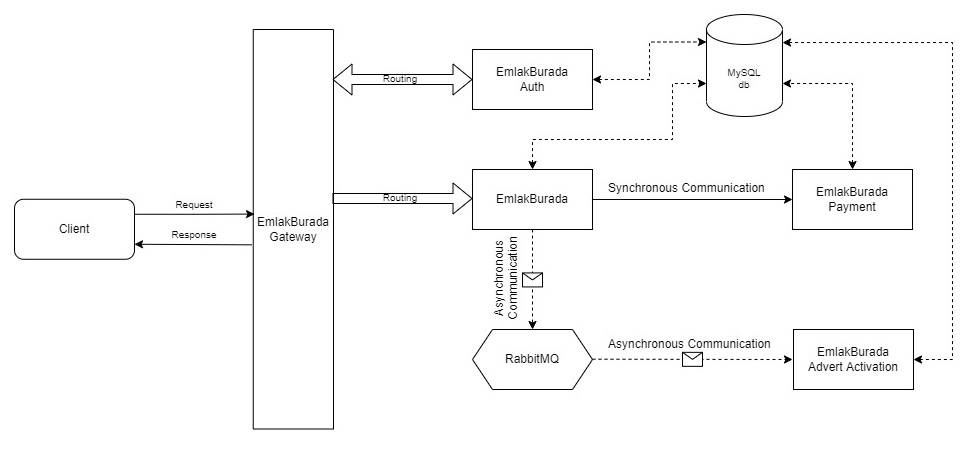
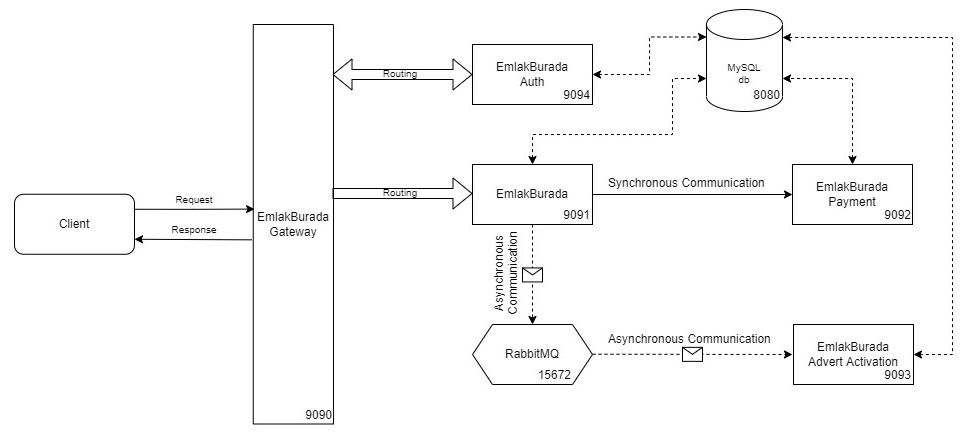
The readme file has been expanded.

diff --git a/EmlakBurada/src/main/java/com/example/emlakburada/config/SwaggerConfig.java b/EmlakBurada/src/main/java/com/example/emlakburada/config/SwaggerConfig.java
@@ -31,12 +31,11 @@ public class SwaggerConfig {
 	private ApiInfo metaInfo() {
 
 		ApiInfo apiInfo = new ApiInfo(
-				"Spring Boot Swagger Example API",
-				"Spring Boot Swagger Example API for Youtube",
+				"Spring Boot Swagger",
+				"Patika.dev & HepsiEmlak Spring Boot Project",
 				"1.0",
 				"Terms of Service",
-				new Contact("TechPrimers", "https://www.youtube.com/TechPrimers",
-						"techprimerschannel@gmail.com"),
+				new Contact("-", "-",	"-"),
 				"Apache License Version 2.0",
 				"https://www.apache.org/licesen.html"
 		);

diff --git a/README.md b/README.md
@@ -12,6 +12,103 @@
 
 The project requirements sheet is in the link below.
 
+```
+https://github.com/TacettinUtkuSuer/Bootcamp-Final-Project/blob/main/BootcampFinalProject.pdf
+```
+
+Within the scope of this project, 5 services have been prepared.
+
+- EmlakBurada
+- EmlakBurada - Gateway
+- EmlakBurada - Payment
+- EmlakBurada - AdvertActivation
+- EmlakBurada - Auth
+
+For a quick start, if you want to try the project, the following files can be used.
+
+```
+POSTMAN  : https://github.com/TacettinUtkuSuer/Bootcamp-Final-Project/blob/main/otherFiles/BOOTCAMP-PROJECT.postman_collection.json
+
+MySQL    : https://github.com/TacettinUtkuSuer/Bootcamp-Final-Project/blob/main/otherFiles/EmlakBuradaProject.sql
+
+RabbitMQ : https://github.com/TacettinUtkuSuer/Bootcamp-Final-Project/blob/main/otherFiles/rabbitMQ.json
+```
+
+Dummy SQL database can also be created with the "/prepare" end point in the EmlakBurada service (port 9091).
+
+
+
+### The Service Schema and Service Definitions
+
+![UML diagram](otherFiles/figures/Schema.jpg)
+
+The services schema is shown above. Client requests and response are provided through the gateway layer (port 9090). All requests are provided from this layer. Gateway also provides security operations. In order to access the EmlakBurada service, you must first login to the system or use a previously created token that has not expired. Even if the port numbers are given in the schema, the client only needs to know the gateway port.
+
+
+
+The e-mail and password request from the Gateway layer are compared with the information in the database. After evaluating, if allowed, a JWT token is created and this token is sent in response. This created token provides access to EmlakBurada service, in other words, to these end points.
+
+
+
+End points can be accessed via Gateway with the token information. The end points on EmlakBurada are shown in the figure below. Information can be transferred from this service to the EmlakBurada-Payment service via synchronous communication. The communication with the EmlakBurada - AdvertActivation service is done with asynchronous communication using RabbitMQ.
+
+
+
+![HepsiEmlak-Swagger](otherFiles\figures\HepsiEmlak-Swagger.PNG)
+
+
+
+The payment service simulates the communication with the bank. Since bank communication is not within the scope of this project, this service shows the payment request received by typing it into the database. For future situations such as a change in the price of the product, the price information is located on the database and is read from the database with a key-value relationship. Thus, a dependency is not created.
+
+
+
+The status of newly created advert is IN_REVIEW. In order to switch from this status to ACTIVE status, EmlakBurada-AdvertActivation service is used with asynchronous communication.
+
+
+
+### Considerations During the Writing of the Project
+
+- During the project writing, git has been used and an explanatory commit was made at the necessary points.
+- It has been tried to make sure that the code is clean, understandable and easy to read.
+- It has been tried to be written in accordance with the code structure. It was created taking into account the layered architecture (controller-service-repository). 
+- This project has been tried to be done in accordance with the microservice architecture.
+- Logging and Exception Handling have been tried to be used.
+- Programming principles (SOLID) were tried to be taken into account.
+
+
+
+### Future Work
+
+- Logging and Exception Handling can be diversified to make them more inclusive across the whole code.
+- Logging operations can be made polymorphic and written to a file or database.
+- Access to other services (except Gateway) can be restricted for more security.
+- Service layer can be improved to avoid code duplication.
+- Instead of using a common database, each service can be connecting to its own database to be more secure (especially for credit card information).
+- Methods for filtering advertisements by automatically catching inappropriate things such as profanity can be added to EmlakHere - AdvertActivation service.
+- User interactions can also be included by combining it with the EmlakBurada project, which was previously written within the scope of the Bootcamp.
+
+
+
+
+
+
+
+
+
+
+
+
+
+
+
+
+
+
+
+
+
+
+
 
 
 
